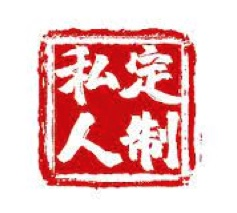
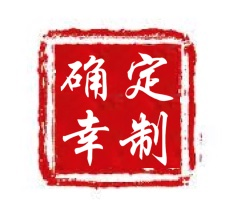
minor adjustment

Changed region(s): [[0.2363, 0.1972, 0.7679, 0.7887]]

diff --git a/js/proposals.js b/js/proposals.js
@@ -968,6 +968,7 @@ function insertCategoryItem(proposalScheme){
         categoryName = $(this).data("name"); //设置全局变量，避免interval延迟调用问题
         categoryType = $(this).data("type"); //设置全局变量，避免interval延迟调用问题
 
+        //注意：以下代码不work。原因：微信分享在页面实例化之后完成注册，后续参数变化不会引起分享内容变化。调整为随机设置
         //修改分享标题
         if(categoryType == "free"){
             shareTitle = "定制师方案·"+categoryName;
@@ -1137,14 +1138,13 @@ function getDateDiff(dateTimeStamp) {
     return result;
 }
 
-//注册分享事件后参数变化无效，需要显式指定函数调用
-function getShareTitle(){
-    return shareTitle;
-}
-function getShareLogo(){
-    return shareLogo;
-}
-
+//注册分享事件后参数变化无效，采用随机显示方式
+var shareTitlePrefixs = ["确幸定制·","定制师方案·","专家指南·","甄选合集·"];
+var shareLogos = [
+"https://www.biglistoflittlethings.com/ilife-web-wx/images/proposal.jpeg",
+"https://www.biglistoflittlethings.com/ilife-web-wx/images/icon/type-solution.png",
+"https://www.biglistoflittlethings.com/ilife-web-wx/images/icon/type-guide.png",
+"https://www.biglistoflittlethings.com/ilife-web-wx/images/icon/type-board.png"];
 function registerShareHandler(){
     //计算分享达人：如果当前用户为达人则使用其自身ID，如果当前用户不是达人则使用页面本身的fromBroker，如果fromBroker为空则默认为system
     var shareBrokerId = "system";//默认为平台直接分享
@@ -1208,10 +1208,10 @@ function registerShareHandler(){
                 // 则须把相关接口放在ready函数中调用来确保正确执行。对于用户触发时才调用的接口，则可以直接调用，不需要放在ready函数中。
                 //分享到朋友圈
                 wx.updateTimelineShareData({
-                    title:getShareTitle(), // 分享标题
+                    title:shareTitlePrefixs[Math.floor(Math.random()*1000)%4]+(categoryName?categoryName:"你的专属个性化方案"), // 分享标题
                     //link:window.location.href, // 分享链接，该链接域名或路径必须与当前页面对应的公众号JS安全域名一致
                     link:shareUrl,
-                    imgUrl:getShareLogo(), // 分享图标
+                    imgUrl:shareLogos[Math.floor(Math.random()*1000)%4], // 分享图标
                     success: function () {
                         // 用户点击了分享后执行的回调函数
                         //TODO: solution分享当前不记录
@@ -1224,11 +1224,11 @@ function registerShareHandler(){
                 });
                 //分享给朋友
                 wx.updateAppMessageShareData({
-                    title:getShareTitle(), // 分享标题
+                    title:shareTitlePrefixs[Math.floor(Math.random()*1000)%4]+(categoryName?categoryName:"你的专属个性化方案"), // 分享标题
                     desc:"专家指南+定制师经验，无论是个性体检，还是旅游行程，都能快速获取专属方案。", // 分享描述
                     //link:window.location.href, // 分享链接，该链接域名或路径必须与当前页面对应的公众号JS安全域名一致
                     link:shareUrl,
-                    imgUrl: getShareLogo(), // 分享图标
+                    imgUrl: shareLogos[Math.floor(Math.random()*1000)%4], // 分享图标
                     type: 'link', // 分享类型,music、video或link，不填默认为link
                     dataUrl: '', // 如果type是music或video，则要提供数据链接，默认为空
                     success: function () {
@@ -1244,10 +1244,10 @@ function registerShareHandler(){
 
                 //分享到朋友圈
                 wx.onMenuShareTimeline({
-                    title:getShareTitle(), // 分享标题
+                    title:shareTitlePrefixs[Math.floor(Math.random()*1000)%4]+(categoryName?categoryName:"你的专属个性化方案"), // 分享标题
                     //link:window.location.href, // 分享链接，该链接域名或路径必须与当前页面对应的公众号JS安全域名一致
                     link:shareUrl,
-                    imgUrl:getShareLogo(), // 分享图标
+                    imgUrl:shareLogos[Math.floor(Math.random()*1000)%4], // 分享图标
                     success: function () {
                         // 用户点击了分享后执行的回调函数
                         //TODO: solution分享当前不记录
@@ -1260,11 +1260,11 @@ function registerShareHandler(){
                 });
                 //分享给朋友
                 wx.onMenuShareAppMessage({
-                    title:getShareTitle(), // 分享标题
+                    title:shareTitlePrefixs[Math.floor(Math.random()*1000)%4]+(categoryName?categoryName:"你的专属个性化方案"), // 分享标题
                     desc:"专家指南+定制师经验，无论是个性体检，还是旅游行程，都能快速获取专属方案。", // 分享描述
                     //link:window.location.href, // 分享链接，该链接域名或路径必须与当前页面对应的公众号JS安全域名一致
                     link:shareUrl,
-                    imgUrl: getShareLogo(), // 分享图标
+                    imgUrl: shareLogos[Math.floor(Math.random()*1000)%4], // 分享图标
                     type: 'link', // 分享类型,music、video或link，不填默认为link
                     dataUrl: '', // 如果type是music或video，则要提供数据链接，默认为空
                     success: function () {

diff --git a/proposals.html b/proposals.html
@@ -158,5 +158,5 @@
 <script type="text/javascript" src="ext/d3/d3.min.js"></script>
 <script type="text/javascript" src="ext/d3/zoomable-circle-packing.js?v=0.6"></script>
 <script type="text/javascript" src="js/util.js?v=3.21"></script>
-<script type="text/javascript" src="js/proposals.js?v=1.41"></script> 
+<script type="text/javascript" src="js/proposals.js?v=1.42"></script> 
 </html>
